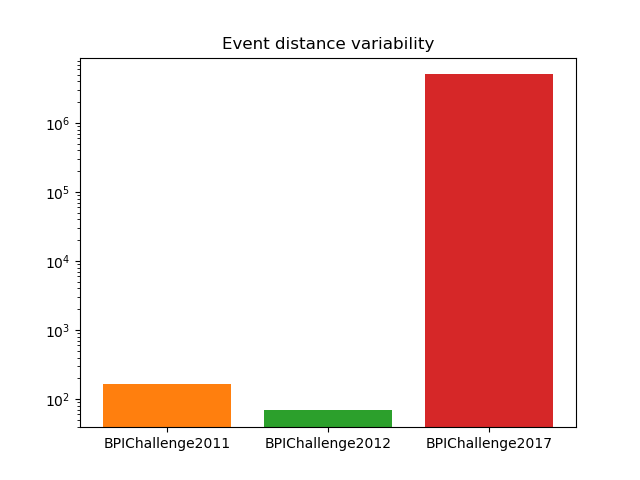
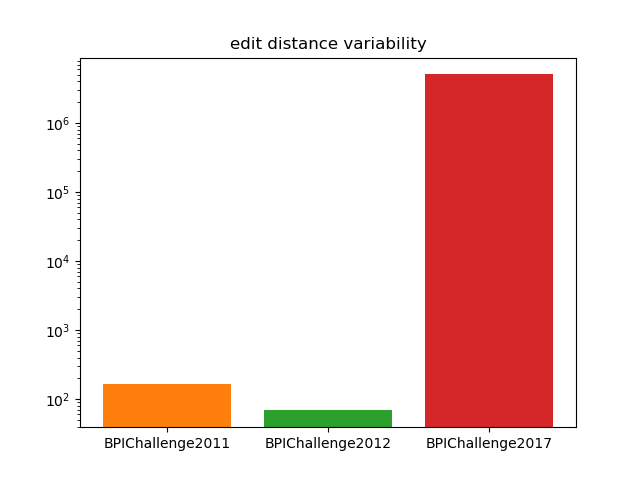
Fix disastro log repository

Changed region(s): [[0.3438, 0.0625, 0.6875, 0.125]]

diff --git a/variability.py b/variability.py
@@ -1,6 +1,6 @@
 """
 This file contains the implementation of the three metrics required by the assignment. In particular, it defines:
-- "compute_event_distance_variability", which compute the event distance variability of a given log using the
+- "compute_edit_distance_variability", which compute the edit distance variability of a given log using the
    Levenshtein distance formula
 - "compute_variant_variability", which computes the number of variant (different traces) appearing in the input log
 - "compute_my_variability", which computes the all-block entropy of an input log
@@ -13,15 +13,15 @@ from progress.bar import Bar, IncrementalBar, ShadyBar
 from log import Log, Trace, Event
 
 
-def compute_event_distance_variability(event_log: Log) -> float:
+def compute_edit_distance_variability(event_log: Log) -> float:
     """
-    Computes the event distance variability of the log using the Levenstein distance formula
+    Computes the edit distance variability of the log using the Levenstein distance formula
 
     Args:
         event_log: an instance of Log class
 
     Returns:
-        The computed event distance of the input log
+        The computed edit distance of the input log
     """
 
     traces = event_log.trace_list
@@ -29,18 +29,22 @@ def compute_event_distance_variability(event_log: Log) -> float:
     distance: int = 0
     number_of_comparisons: int = 0
 
+    bar = ShadyBar("Edit distance computation", max=len(traces) - 1)
+
     trace_1: Trace = traces[0]
     for trace_2 in traces:
         if trace_1 != trace_2:
+            bar.next()
             distance += _levenshtein_distance(trace_1, trace_2) * trace_1.frequency * trace_2.frequency
             number_of_comparisons += 1
+    bar.finish()
 
     return distance / number_of_comparisons
 
 
 def _levenshtein_distance(t1: Trace, t2: Trace):
     """
-    "Private" method used to compute the event distance between two input traces using the Levenshtein algorithm.
+    "Private" method used to compute the edit distance between two input traces using the Levenshtein algorithm.
     The Levenshtein distance is computed considering each event code of a trace as a different character.
     Args:
         t1 (Trace): the first input trace

diff --git a/main.py b/main.py
@@ -25,7 +25,7 @@ from pm4py.objects.log.importer.xes import factory as xes_import_factory
 from matplotlib import pyplot as plt
 
 from log import Log, Event
-from variability import compute_event_distance_variability, compute_variant_variability, compute_my_variability
+from variability import compute_edit_distance_variability, compute_variant_variability, compute_my_variability
 
 
 def load_file(path: str) -> EventLog:
@@ -76,9 +76,9 @@ def process_file(file_path: str) -> Tuple[int, float, float, float]:
     print("3.1: Number of variants: %d" % vv)
     print("     Variability (perc.): %0.3f%%" % pvv)
 
-    ed: float = compute_event_distance_variability(log)  # Event distance variability
-    print("3.2: Event distance: %0.3f" % ed)
-
+    print("3.2: Edit distance:")
+    ed: float = compute_edit_distance_variability(log)  # edit distance variability
+    print("     value: %0.3f" % ed)
     print("3.3: Our metric:")
     om: float = compute_my_variability(log)  # Our metric
     print("    Prefix entropy: %f" % om, "\n")
@@ -91,6 +91,14 @@ def process_file(file_path: str) -> Tuple[int, float, float, float]:
 
 
 def _print_event_list(event_list_list: List[List[Event]]) -> str:
+    """
+    Computes a string representation of the list of event list is
+    Args:
+        event_list_list (List[List[Event]]): the list of list of events to print
+
+    Returns:
+        the string representation of the input parameter
+    """
     output_str: str = ""
     for event_list in event_list_list:
         output_str += "["
@@ -133,15 +141,15 @@ if __name__ == "__main__":
     plt.title("Percentage of variability")
     plt.bar(x, perc_variants, color=colors)
     plt.xticks(x, log_file_names)
-    plt.ylim(100)
+    # plt.ylim(100)
     plt.savefig("plots/perc_variants.png")
     plt.show()
 
-    plt.title("Event distance variability")
+    plt.title("Edit distance variability")
     plt.bar(x, event_distances, color=colors)
     plt.yscale("log")
     plt.xticks(x, log_file_names)
-    plt.savefig("plots/event_distance.png")
+    plt.savefig("plots/edit_distance.png")
     plt.show()
 
     plt.title("Prefix entropy (our metric)")

diff --git a/README.md b/README.md
@@ -1,2 +1,19 @@
 # Process Mining Assignment
-Log analisys using python (with PM4PY) and some metrics.
+This is an implementation of Project #1 of 2019/2020 Process Mining class done by Michele Tagliabue and Claudio Rimensi.
+
+## Prerequisites
+This project has been tested with Python 3.7 on Windows 10 and Mac OS X Catalina. There are some depenencies required:
+
+- *pm4py*
+- *matplotlib*
+- *progress* 
+- *colorama*
+
+To be sure that you have all dependencies installed, please open a terminal and run:
+> pip3 install pm4py matplotlib progress colorama
+
+## Run instruction
+To run the program:
+- Open a terminal in the same directory of "main.py"
+- Run "python3 main.py" (or "python3 main.py")
+- Wait  
